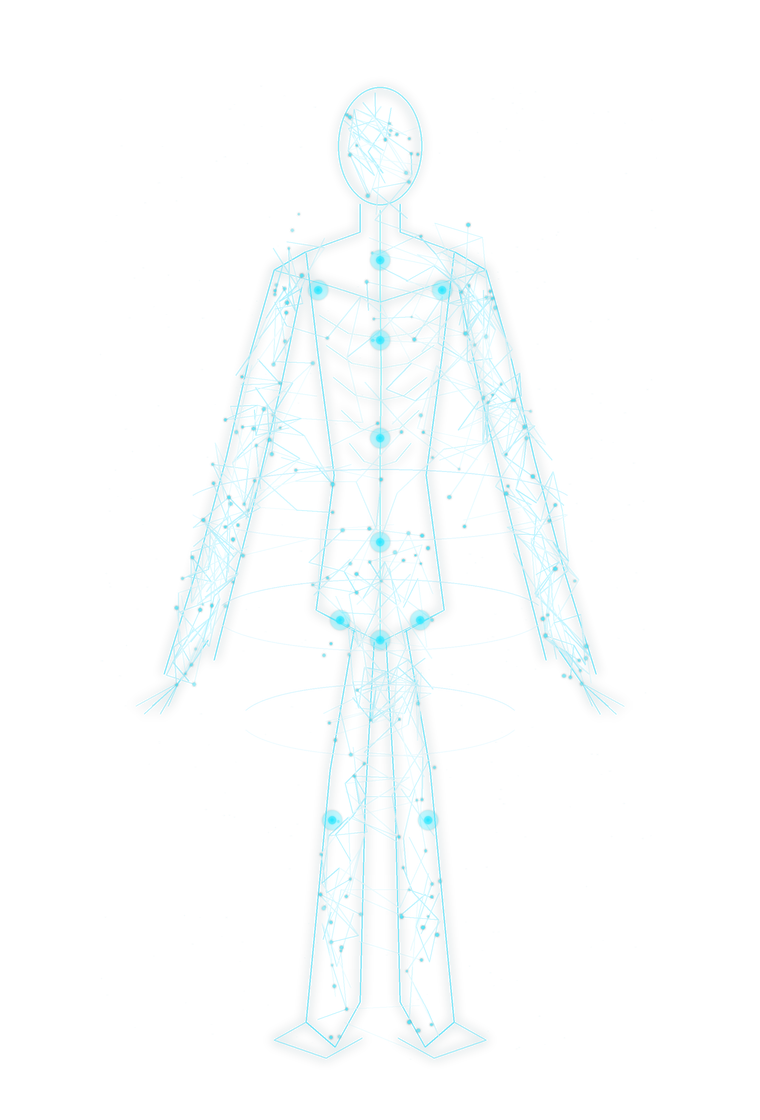
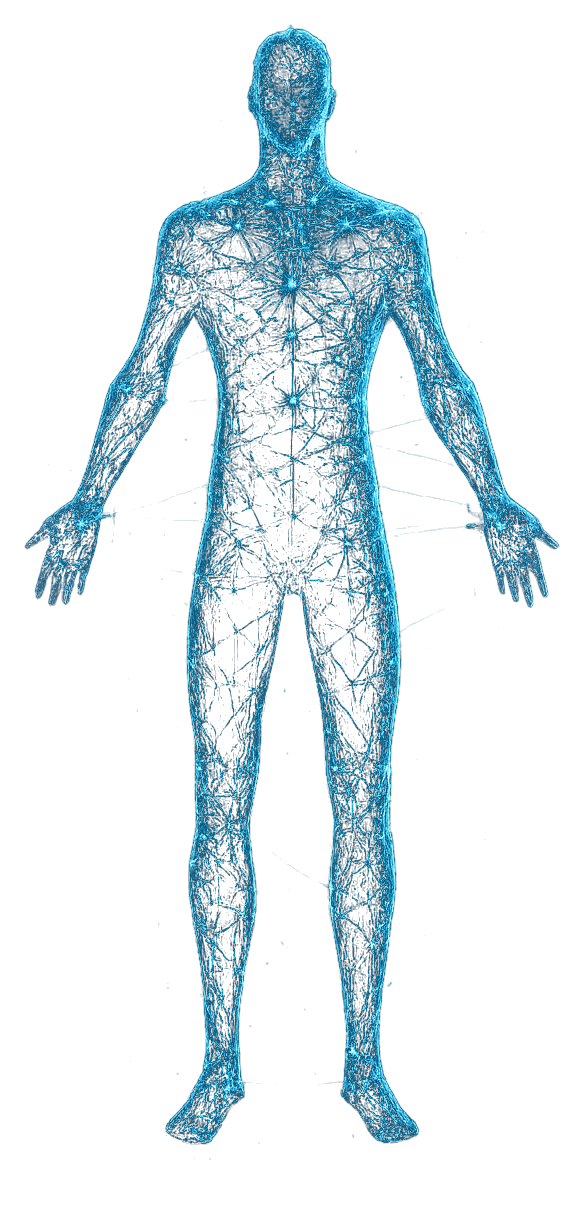
Simplify health biometric hierarchy

Changed region(s): [[0.0308, 0.0, 0.9555, 0.9375]]

diff --git a/app/ui/components/panels.py b/app/ui/components/panels.py
@@ -143,6 +143,8 @@ class BiometricPanel(BiometricScanPanel):
 
 
 class _BiometricScanCanvas(QWidget):
+    _LEADER_KEYS = {"sleep", "hrv", "vo2", "training_load"}
+
     def __init__(self, snapshot: HealthDashboardSnapshot, parent=None):
         super().__init__(parent)
         self._snapshot = snapshot
@@ -168,7 +170,6 @@ class _BiometricScanCanvas(QWidget):
         anchors = self._body_anchors(layout["figure"])
         self._paint_model(p, layout["figure"])
         self._paint_metric_cards(p, layout["metric_slots"], anchors)
-        self._paint_live_feed(p, layout["live_feed"])
         self._paint_scan_status(p, layout["scan_status"])
         self._paint_system_rail(p, layout["rail"])
         p.end()
@@ -187,11 +188,11 @@ class _BiometricScanCanvas(QWidget):
         stage_right = right_x - gap
         stage = QRectF(stage_left, 16.0, max(240.0, stage_right - stage_left), h - 32.0)
         cx = stage.center().x()
-        figure_h = min(h * 0.88, stage.width() * 1.88)
+        figure_h = min(h * 0.93, stage.width() * 2.08)
         figure_w = figure_h * self._image_aspect()
-        figure = QRectF(cx - figure_w / 2.0, h * 0.028, figure_w, figure_h)
-        if figure.bottom() > h * 0.91:
-            figure.moveBottom(h * 0.91)
+        figure = QRectF(cx - figure_w / 2.0, h * 0.0, figure_w, figure_h)
+        if figure.bottom() > h * 0.95:
+            figure.moveBottom(h * 0.95)
 
         left_cards = [c for c in self._snapshot.metric_cards if c.side == "left"]
         right_cards = [c for c in self._snapshot.metric_cards if c.side == "right"]
@@ -206,8 +207,7 @@ class _BiometricScanCanvas(QWidget):
             "stage": stage,
             "figure": figure,
             "metric_slots": slots,
-            "live_feed": QRectF(left_x, h - 130.0, card_w, 108.0),
-            "scan_status": QRectF(stage.center().x() - 190.0, h - 92.0, 380.0, 58.0),
+            "scan_status": QRectF(stage.center().x() - 180.0, h - 64.0, 360.0, 46.0),
         }
 
     def _image_aspect(self) -> float:
@@ -216,25 +216,25 @@ class _BiometricScanCanvas(QWidget):
         return self._pixmap.width() / max(1, self._pixmap.height())
 
     def _paint_scan_field(self, p: QPainter, w: int, h: int, stage: QRectF, figure: QRectF) -> None:
-        grid = self._color(PALETTE.grid, 145)
+        grid = self._color(PALETTE.grid, 84)
         p.setPen(QPen(grid, 1.0))
         x = 0.0
         while x < w:
-            alpha = 170 if abs(x - stage.center().x()) < 2 else 95
+            alpha = 95 if abs(x - stage.center().x()) < 2 else 52
             p.setPen(QPen(self._color(PALETTE.grid, alpha), 1.0))
             p.drawLine(QPointF(x, 0), QPointF(x, h))
-            x += 36
+            x += 48
         y = 0.0
         while y < h:
-            p.setPen(QPen(self._color(PALETTE.grid, 108), 1.0))
+            p.setPen(QPen(self._color(PALETTE.grid, 54), 1.0))
             p.drawLine(QPointF(0, y), QPointF(w, y))
-            y += 36
+            y += 48
 
         cx = figure.center().x()
         cy = figure.center().y() + figure.height() * 0.02
-        for i, factor in enumerate((0.34, 0.48, 0.62)):
+        for i, factor in enumerate((0.44, 0.63)):
             radius = figure.height() * factor
-            alpha = 56 + i * 14
+            alpha = 36 + i * 18
             p.setPen(QPen(self._color(PALETTE.accent_dim, alpha), 1.0))
             p.drawEllipse(QPointF(cx, cy), radius * 0.46, radius * 0.46)
 
@@ -246,11 +246,9 @@ class _BiometricScanCanvas(QWidget):
             QPointF(cx + math.cos(sweep) * ring_r, cy + math.sin(sweep) * ring_r),
         )
 
-        base = QPointF(cx, figure.bottom() + 12)
-        for i, r in enumerate(
-            (figure.width() * 0.55, figure.width() * 0.78, figure.width() * 1.05)
-        ):
-            alpha = 125 - i * 34
+        base = QPointF(cx, figure.bottom() + 8)
+        for i, r in enumerate((figure.width() * 0.62, figure.width() * 0.96)):
+            alpha = 80 - i * 24
             p.setPen(QPen(self._color(PALETTE.accent, alpha), 1.0))
             p.drawEllipse(base, r, r * 0.15)
         pulse = 1.0 + math.sin(self._t * 1.4) * 0.035
@@ -260,9 +258,9 @@ class _BiometricScanCanvas(QWidget):
         scan_y = figure.top() + (0.5 + 0.5 * math.sin(self._t * 0.82)) * figure.height()
         p.fillRect(
             QRectF(stage.left() + 10, scan_y - 7, stage.width() - 20, 14),
-            self._color(PALETTE.accent, 22),
+            self._color(PALETTE.accent, 12),
         )
-        p.setPen(QPen(self._color(PALETTE.accent, 92), 1.0))
+        p.setPen(QPen(self._color(PALETTE.accent, 58), 1.0))
         p.drawLine(QPointF(stage.left() + 18, scan_y), QPointF(stage.right() - 18, scan_y))
 
     def _paint_model(self, p: QPainter, figure: QRectF) -> None:
@@ -299,23 +297,24 @@ class _BiometricScanCanvas(QWidget):
     ) -> None:
         for card, rect in slots:
             anchor = anchors.get(card.target_region, anchors["core"])
-            edge_x = rect.right() if card.side == "left" else rect.left()
-            start = QPointF(edge_x, rect.center().y())
-            elbow = QPointF(start.x() + (30 if card.side == "left" else -30), start.y())
-            pre_anchor = QPointF(anchor.x() + (-66 if card.side == "left" else 66), anchor.y())
-            p.setPen(QPen(self._color(PALETTE.accent, 150), 1.05))
-            p.drawLine(start, elbow)
-            p.drawLine(elbow, pre_anchor)
-            p.drawLine(pre_anchor, anchor)
-            p.setBrush(self._color(PALETTE.accent, 190))
-            p.setPen(Qt.NoPen)
-            p.drawEllipse(anchor, 3.0, 3.0)
-            p.drawRect(QRectF(start.x() - 2.0, start.y() - 2.0, 4.0, 4.0))
+            if card.key in self._LEADER_KEYS:
+                edge_x = rect.right() if card.side == "left" else rect.left()
+                start = QPointF(edge_x, rect.center().y())
+                elbow = QPointF(start.x() + (24 if card.side == "left" else -24), start.y())
+                pre_anchor = QPointF(anchor.x() + (-54 if card.side == "left" else 54), anchor.y())
+                p.setPen(QPen(self._color(PALETTE.accent, 128), 1.0))
+                p.drawLine(start, elbow)
+                p.drawLine(elbow, pre_anchor)
+                p.drawLine(pre_anchor, anchor)
+                p.setBrush(self._color(PALETTE.accent, 190))
+                p.setPen(Qt.NoPen)
+                p.drawEllipse(anchor, 3.0, 3.0)
+                p.drawRect(QRectF(start.x() - 2.0, start.y() - 2.0, 4.0, 4.0))
             self._draw_metric_card(p, card, rect)
 
     def _draw_metric_card(self, p: QPainter, card: HealthMetricCard, rect: QRectF) -> None:
         accent = PALETTE.orange if card.warning else PALETTE.accent
-        self._draw_panel_rect(p, rect, accent=accent, fill_alpha=188)
+        self._draw_panel_rect(p, rect, accent=accent, fill_alpha=154)
         self._set_font(p, TYPE.small, mono=True, bold=True)
         p.setPen(self._color(PALETTE.text, 226))
         p.drawText(
@@ -384,43 +383,20 @@ class _BiometricScanCanvas(QWidget):
         }
         return details.get(card.key, "CURRENT")
 
-    def _paint_live_feed(self, p: QPainter, rect: QRectF) -> None:
-        self._draw_panel_rect(p, rect, accent=PALETTE.border, fill_alpha=142)
-        self._set_font(p, TYPE.nano, mono=True, bold=True)
-        p.setPen(self._color(PALETTE.text, 220))
-        p.drawText(QRectF(rect.left() + 13, rect.top() + 10, rect.width() - 26, 14), "LIVE FEED")
-        p.setPen(self._color(PALETTE.text_faint, 200))
-        p.drawText(
-            QRectF(rect.left() + 13, rect.top() + 26, rect.width() - 26, 14),
-            "REAL-TIME BIOMETRIC STREAM",
-        )
-        self._draw_sparkline(
-            p,
-            self._snapshot.live_feed,
-            QRectF(rect.left() + 12, rect.top() + 48, rect.width() - 24, rect.height() - 62),
-            PALETTE.accent,
-            filled=True,
-        )
-        p.setBrush(
-            self._color(PALETTE.accent, 160 + int(60 * (0.5 + 0.5 * math.sin(self._t * 2.0))))
-        )
-        p.setPen(Qt.NoPen)
-        p.drawEllipse(QPointF(rect.right() - 28, rect.top() + 18), 3.0, 3.0)
-
     def _paint_scan_status(self, p: QPainter, rect: QRectF) -> None:
         self._draw_panel_rect(p, rect, accent=PALETTE.border, fill_alpha=150)
         self._set_font(p, TYPE.nano, mono=True, bold=True)
         p.setPen(self._color(PALETTE.accent, 230))
         p.drawText(
-            QRectF(rect.left() + 16, rect.top() + 14, rect.width() - 32, 14),
+            QRectF(rect.left() + 14, rect.top() + 10, rect.width() - 28, 14),
             "BIOMETRIC SCAN ACTIVE",
         )
         p.setPen(self._color(PALETTE.text_faint, 210))
         p.drawText(
-            QRectF(rect.left() + 16, rect.top() + 30, rect.width() - 32, 14),
+            QRectF(rect.left() + 14, rect.top() + 25, rect.width() - 28, 14),
             f"BODY BATTERY {self._snapshot.body_battery_value} / {self._snapshot.body_battery_status.upper()}",
         )
-        bar = QRectF(rect.left() + 16, rect.bottom() - 12, rect.width() - 32, 4)
+        bar = QRectF(rect.left() + 14, rect.bottom() - 9, rect.width() - 28, 3)
         p.fillRect(bar, self._color(PALETTE.border, 180))
         p.fillRect(
             QRectF(bar.left(), bar.top(), bar.width() * 0.72, bar.height()),
@@ -430,59 +406,28 @@ class _BiometricScanCanvas(QWidget):
             self._color(PALETTE.accent, 185 + int(50 * (0.5 + 0.5 * math.sin(self._t * 2.2))))
         )
         p.setPen(Qt.NoPen)
-        p.drawEllipse(QPointF(rect.right() - 52, rect.top() + 20), 3.0, 3.0)
+        p.drawEllipse(QPointF(rect.right() - 50, rect.top() + 16), 3.0, 3.0)
         p.setPen(self._color(PALETTE.text_dim, 210))
-        p.drawText(QRectF(rect.right() - 45, rect.top() + 13, 36, 14), "LIVE")
+        p.drawText(QRectF(rect.right() - 43, rect.top() + 9, 36, 14), "LIVE")
 
     def _paint_system_rail(self, p: QPainter, rail: QRectF) -> None:
         gap = 10.0
-        available = rail.height() - gap * 4.0
+        available = rail.height() - gap * 3.0
         heights = [
-            available * 0.27,
-            available * 0.31,
-            available * 0.13,
-            available * 0.14,
-            available * 0.15,
+            available * 0.43,
+            available * 0.19,
+            available * 0.19,
+            available * 0.19,
         ]
         y = rail.top()
         rects: list[QRectF] = []
         for height in heights:
             rects.append(QRectF(rail.left(), y, rail.width(), height))
             y += height + gap
-        self._paint_radar_panel(p, rects[0])
-        self._paint_bio_bars(p, rects[1], self._snapshot.bio_systems)
-        self._paint_anomaly_panel(p, rects[2])
-        self._paint_last_sync(p, rects[3])
-        self._paint_data_source(p, rects[4])
-
-    def _paint_radar_panel(self, p: QPainter, rect: QRectF) -> None:
-        self._draw_panel_rect(p, rect, accent=PALETTE.border, fill_alpha=160)
-        self._rail_title(p, rect, "SYSTEM OVERVIEW")
-        center = QPointF(rect.center().x(), rect.top() + rect.height() * 0.55)
-        radius = min(rect.width(), rect.height()) * 0.34
-        p.setPen(QPen(self._color(PALETTE.border, 160), 1.0))
-        for factor in (0.34, 0.55, 0.76, 1.0):
-            p.drawEllipse(center, radius * factor, radius * factor)
-        p.drawLine(
-            QPointF(center.x() - radius, center.y()), QPointF(center.x() + radius, center.y())
-        )
-        p.drawLine(
-            QPointF(center.x(), center.y() - radius), QPointF(center.x(), center.y() + radius)
-        )
-        angle = self._t * 0.18
-        p.setPen(QPen(self._color(PALETTE.accent, 145), 1.2))
-        p.drawLine(
-            center,
-            QPointF(center.x() + math.cos(angle) * radius, center.y() + math.sin(angle) * radius),
-        )
-        p.setPen(Qt.NoPen)
-        for i in range(90):
-            a = i * 2.399 + self._t * 0.03
-            rr = radius * (0.16 + ((i * 37) % 83) / 100)
-            x = center.x() + math.cos(a) * rr
-            y = center.y() + math.sin(a) * rr
-            p.setBrush(self._color(PALETTE.accent, 45 + (i % 5) * 24))
-            p.drawEllipse(QPointF(x, y), 1.2, 1.2)
+        self._paint_bio_bars(p, rects[0], self._snapshot.bio_systems)
+        self._paint_anomaly_panel(p, rects[1])
+        self._paint_last_sync(p, rects[2])
+        self._paint_data_source(p, rects[3])
 
     def _paint_bio_bars(self, p: QPainter, rect: QRectF, bars: tuple[BioSystemBar, ...]) -> None:
         self._draw_panel_rect(p, rect, accent=PALETTE.border, fill_alpha=160)

diff --git a/app/ui/screens/pages.py b/app/ui/screens/pages.py
@@ -22,7 +22,7 @@ from PySide6.QtWidgets import (
 
 from app import services
 from app.domains.health.health_service import get_health_dashboard_snapshot
-from app.ui.components.charts import ChartPanel, TimelinePanel
+from app.ui.components.charts import ChartPanel
 from app.ui.components.hud import HudPanel, MetricCell
 from app.ui.components.panels import (
     BiometricScanPanel,
@@ -204,12 +204,9 @@ class OverviewPage(_ScrollPage):
             )
             creative = 0.55
             projects = min(1.0, (pm["momentum"].mean() or 0) / 100) if not pm.empty else 0.5
-            training = (
-                min(1.0, (af["training_load"].tail(7).mean() or 0) / 100) if not af.empty else 0.5
-            )
-            return [finance, health, focus, creative, projects, training]
+            return [finance, health, focus, creative, projects]
         except Exception:
-            return [0.6] * 6
+            return [0.6] * 5
 
     def _domain_nodes(self) -> list[DomainNode]:
         balance = self._system_balance()
@@ -219,7 +216,6 @@ class OverviewPage(_ScrollPage):
             "productivity": balance[2],
             "creative": balance[3],
             "projects": balance[4],
-            "football": balance[5],
             "calendar": 0.52,
             "learning": 0.48,
         }
@@ -470,25 +466,6 @@ class ModulePage(_ScrollPage):
             daily = pm.groupby("day")["momentum"].mean().sort_index()
             chart.line(daily.tolist(), color=PALETTE.accent)
         self.col.addWidget(chart)
-
-    def _build_football(self) -> None:
-        self.add_metric_strip(
-            [
-                Metric("Form (last 6)", "W W D L W D"),
-                Metric("Goals For", "12"),
-                Metric("Goals Against", "7"),
-            ]
-        )
-        self.col.addWidget(
-            TimelinePanel(
-                "Recent Fixtures",
-                [
-                    ("Sat 07 Jun", "Win 3–1 — strong second half"),
-                    ("Wed 04 Jun", "Draw 1–1 — late equaliser conceded"),
-                    ("Sat 31 May", "Win 2–0 — clean sheet"),
-                ],
-            )
-        )
 
 
 # --------------------------------------------------------------------------- #

diff --git a/app/ui/navigation.py b/app/ui/navigation.py
@@ -9,8 +9,8 @@ from dataclasses import dataclass
 class NavItem:
     key: str
     label: str
-    icon: str    # a glyph used as a lightweight icon (no asset dependency)
-    code: str    # technical module ID, e.g. "FIN-01"
+    icon: str  # a glyph used as a lightweight icon (no asset dependency)
+    code: str  # technical module ID, e.g. "FIN-01"
     subtitle: str
 
 
@@ -22,8 +22,7 @@ NAV_ITEMS: list[NavItem] = [
     NavItem("creative", "Creative", "✦", "CRV-04", "Writing and creative output"),
     NavItem("calendar", "Calendar", "▦", "CAL-05", "Schedule load and commitments"),
     NavItem("learning", "Learning", "❖", "LRN-06", "Study and skill acquisition"),
-    NavItem("football", "Football", "⚽", "FBL-07", "Matches, form and training"),
-    NavItem("projects", "Projects", "◈", "PRJ-08", "Momentum across initiatives"),
-    NavItem("insights", "Insights", "✺", "INS-09", "Deterministic findings"),
-    NavItem("settings", "Settings", "⚙", "SYS-10", "Sources, sync and security"),
+    NavItem("projects", "Projects", "◈", "PRJ-07", "Momentum across initiatives"),
+    NavItem("insights", "Insights", "✺", "INS-08", "Deterministic findings"),
+    NavItem("settings", "Settings", "⚙", "SYS-09", "Sources, sync and security"),
 ]

diff --git a/app/domains/health/mock_health_repository.py b/app/domains/health/mock_health_repository.py
@@ -93,14 +93,6 @@ class MockHealthRepository:
         recovery = _scaled_series(hrv, 81.0, 5.8)
         vo2 = _scaled_series(active, 42.2, 2.2)
         readiness = _scaled_series(recovery, 81.0, 4.8)
-        live = tuple(
-            0.48
-            + math.sin(i * 1.7) * 0.15
-            + math.sin(i * 0.39) * 0.08
-            + (0.12 if i % 13 == 0 else 0.0)
-            for i in range(96)
-        )
-
         cards = (
             HealthMetricCard(
                 "sleep",
@@ -193,7 +185,7 @@ class MockHealthRepository:
         last_sync = now.replace(second=max(0, now.second - 26), microsecond=0)
         return HealthDashboardSnapshot(
             title="Health Telemetry",
-            subtitle="Biometric Scan  •  Live Feed",
+            subtitle="Biometric Scan  •  Clinical Telemetry",
             scan_status="LIVE",
             sync_status="ONLINE",
             database_status="DB LOCAL",
@@ -214,5 +206,4 @@ class MockHealthRepository:
                 BioSystemBar("Hormonal", 71),
                 BioSystemBar("Immune", 78),
             ),
-            live_feed=live,
         )

diff --git a/app/ui/components/sidebar.py b/app/ui/components/sidebar.py
@@ -35,7 +35,6 @@ _STATUS = {
     "creative": ("idle", PALETTE.text_faint),
     "calendar": ("nominal", PALETTE.positive),
     "learning": ("idle", PALETTE.text_faint),
-    "football": ("nominal", PALETTE.positive),
     "projects": ("nominal", PALETTE.positive),
     "insights": ("active", PALETTE.accent),
     "settings": ("nominal", PALETTE.positive),

diff --git a/app/ui/components/viz.py b/app/ui/components/viz.py
@@ -135,7 +135,6 @@ _DEFAULT_LINKS = [
     ("creative", "learning"),
     ("finance", "projects"),
     ("calendar", "productivity"),
-    ("football", "health"),
     ("learning", "finance"),
     ("health", "calendar"),
 ]

diff --git a/app/domains/health/health_schema.py b/app/domains/health/health_schema.py
@@ -48,4 +48,3 @@ class HealthDashboardSnapshot:
     body_battery_status: str
     metric_cards: tuple[HealthMetricCard, ...]
     bio_systems: tuple[BioSystemBar, ...]
-    live_feed: tuple[float, ...]
